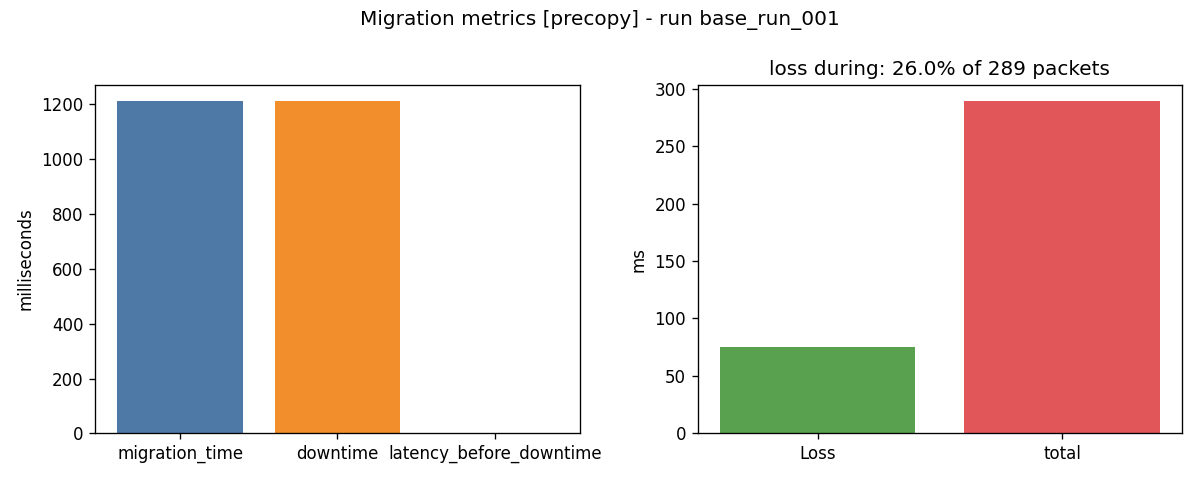
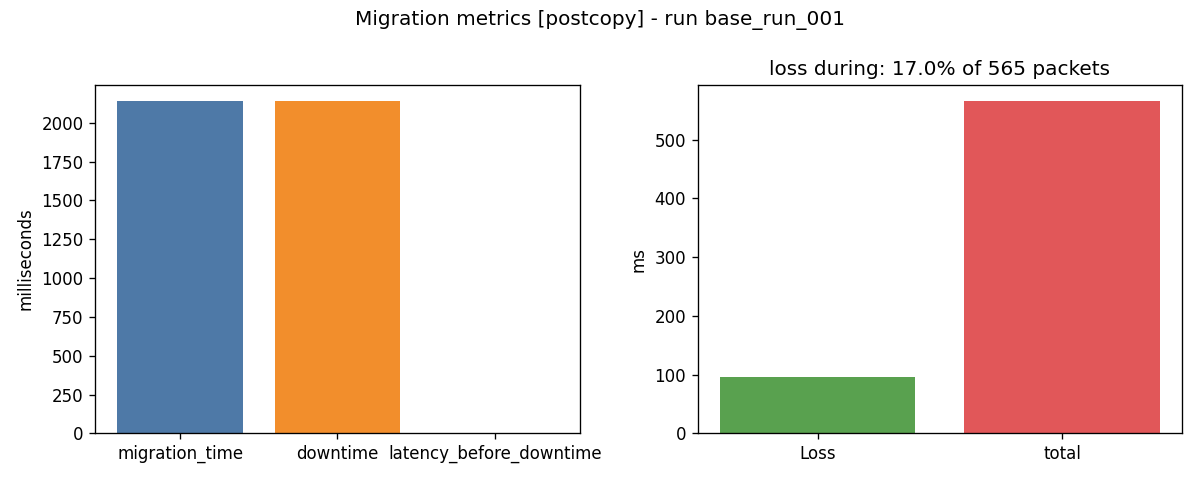
Enhance migration tracking and metrics reporting
- Introduced a blob structure in the state to track individual ingests.
- Updated ingest and state functions to handle blob data.
- Modified MetricsCollector to compute new metrics based on total, downtime, and initial migration windows.
- Adjusted MigrationController to support new window calculations and blob handling.
- Updated configuration for increased client rate and payload size.
- Added new metrics to results CSV and updated PNG output.

diff --git a/benchmark/orchestrator/migration_controller.py b/benchmark/orchestrator/migration_controller.py
@@ -18,6 +18,7 @@ class StateConsistency:
     pre_counter: int
     post_counter: int
     diff: int
+    state_size_bytes: int
 
 
 class MigrationController:
@@ -49,7 +50,7 @@ class MigrationController:
 
     # Strategies
 
-    def run(self, server_a: Container, server_b: Container) -> Tuple[MigrationWindow, StateConsistency]:
+    def run(self, server_a: Container, server_b: Container) -> Tuple[MigrationWindow, MigrationWindow, MigrationWindow, StateConsistency]:
         # Allow initial traffic
         time.sleep(self.cfg.migration.delay_s)
 
@@ -59,55 +60,159 @@ class MigrationController:
             return self._run_postcopy(server_a, server_b)
         return self._run_cold(server_a, server_b)
 
-    def _run_precopy(self, server_a: Container, server_b: Container) -> Tuple[MigrationWindow, StateConsistency]:
-        pre_state = self._get_state(server_a)
-        # Pre-transfer
-        self._import_state(server_b, pre_state)
+    def _run_precopy(self, server_a: Container, server_b: Container) -> Tuple[MigrationWindow, MigrationWindow, MigrationWindow, StateConsistency]:
+        # Total migration start: before initial pre-copy
+        total_start = now_ts()
 
-        start = now_ts()
-        self.dm.switch_alias_precopy(server_a, server_b)
-        end = now_ts()
+        # Initial pre-transfer while clients still connected to A
+        initial_start = now_ts()
+        print("[precopy] starting initial pre-transfer at", initial_start-total_start)
+        initial_state = self._get_state(server_a)
+        # mark where initial migration happened (log the counter)
+        try:
+            marker = int(initial_state.get("counter", 0))
+        except Exception:
+            marker = None
+        print(f"[precopy] initial pre-transfer marker counter={marker} at", now_ts()-total_start)
+        # Prepare a partial state that only includes blobs up to marker
+        initial_blob = {}
+        raw_blob = initial_state.get("blob", {}) or {}
+        if isinstance(raw_blob, dict) and marker is not None:
+            for k, v in raw_blob.items():
+                try:
+                    if int(k) <= marker:
+                        initial_blob[k] = v
+                except Exception:
+                    # ignore non-int keys
+                    continue
+        # Build minimal import payload
+        initial_import = {
+            "counter": marker or int(initial_state.get("counter", 0)),
+            "last_seq": int(initial_state.get("last_seq", -1)),
+            "blob": initial_blob,
+        }
+        self._import_state(server_b, initial_import)
+        initial_end = now_ts()
+        print("[precopy] completed initial pre-transfer at", initial_end-total_start)
+
+        initial_window = MigrationWindow(initial_start, initial_end)
+
+        # Now cut the client connection (clients will experience downtime)
+        downtime_start = now_ts()
+        print("[precopy] starting downtime at", downtime_start-total_start)
+        self.dm.drop_alias(server_a)
+
+        # Transfer the remaining state after cut
+        final_state = self._get_state(server_a)
+        # Prepare remaining blobs (those with counter > marker)
+        remaining_blob = {}
+        raw_final_blob = final_state.get("blob", {}) or {}
+        if isinstance(raw_final_blob, dict) and marker is not None:
+            for k, v in raw_final_blob.items():
+                try:
+                    if int(k) > marker:
+                        remaining_blob[k] = v
+                except Exception:
+                    continue
+        final_import = {
+            "counter": int(final_state.get("counter", 0)),
+            "last_seq": int(final_state.get("last_seq", -1)),
+            "blob": remaining_blob,
+        }
+        self._import_state(server_b, final_import)
+        print("[precopy] completed final transfer at", now_ts()-total_start)
+
+        # Reconnect clients to B
+        self.dm.attach_alias(server_b)
+        downtime_end = now_ts()
+        print("[precopy] ended downtime at", downtime_end-total_start)
+
         # Post consistency check
         post_state = self._get_state(server_b)
-        return MigrationWindow(start, end), self._consistency(pre_state, post_state)
+        print("[precopy] completed post consistency check at", now_ts()-total_start)
+        total_end = downtime_end
+        # Return (total_window, downtime_window, initial_window, consistency)
+        return (
+            MigrationWindow(total_start, total_end),
+            MigrationWindow(downtime_start, downtime_end),
+            initial_window,
+            self._consistency(initial_state, post_state),
+        )
 
-    def _run_postcopy(self, server_a: Container, server_b: Container) -> Tuple[MigrationWindow, StateConsistency]:
-        start = now_ts()
-        self.dm.switch_alias_postcopy(server_a, server_b)
-        end = now_ts()
+    def _run_postcopy(self, server_a: Container, server_b: Container) -> Tuple[MigrationWindow, MigrationWindow, MigrationWindow, StateConsistency]:
+        # Postcopy: disconnect clients first, then transfer, then reconnect
+        total_start = now_ts()
 
-        # Progressive sync for a limited window
-        def sync_loop():
-            stop_at = time.time() + self.cfg.migration.postcopy_sync_s
-            while time.time() < stop_at:
-                try:
-                    st = self._get_state(server_a)  # A remains connected (no alias)
-                    self._import_state(server_b, st)
-                except Exception:
-                    pass
-                time.sleep(0.3)
+        # Disconnect clients (start downtime)
+        downtime_start = now_ts()
+        self.dm.drop_alias(server_a)
 
-        t = threading.Thread(target=sync_loop, daemon=True)
-        t.start()
-        t.join()
-
+        # Transfer full state from A to B while clients disconnected
         pre_state = self._get_state(server_a)
-        post_state = self._get_state(server_b)
-        return MigrationWindow(start, end), self._consistency(pre_state, post_state)
+        self._import_state(server_b, pre_state)
 
-    def _run_cold(self, server_a: Container, server_b: Container) -> Tuple[MigrationWindow, StateConsistency]:
-        start = now_ts()
+        # Reconnect clients to B
+        self.dm.attach_alias(server_b)
+        downtime_end = now_ts()
+
+        post_state = self._get_state(server_b)
+        total_end = downtime_end
+
+        # For postcopy there was no initial background copy; return an empty initial window
+        initial_window = MigrationWindow(total_start, total_start)
+        return (
+            MigrationWindow(total_start, total_end),
+            MigrationWindow(downtime_start, downtime_end),
+            initial_window,
+            self._consistency(pre_state, post_state),
+        )
+
+    def _run_cold(self, server_a: Container, server_b: Container) -> Tuple[MigrationWindow, MigrationWindow, MigrationWindow, StateConsistency]:
+        total_start = now_ts()
+        # Cold cut: remove alias from A (clients disconnect)
+        downtime_start = now_ts()
         self.dm.switch_alias_cold(server_a, server_b)
         pre_state = self._get_state(server_a)
         # Import into B
         self._import_state(server_b, pre_state)
         # Attach alias to B after import
         self.dm.attach_alias(server_b)
-        end = now_ts()
+        downtime_end = now_ts()
         post_state = self._get_state(server_b)
-        return MigrationWindow(start, end), self._consistency(pre_state, post_state)
+        total_end = downtime_end
+        # No initial pre-copy window for cold; return empty initial window
+        initial_window = MigrationWindow(total_start, total_start)
+        return (
+            MigrationWindow(total_start, total_end),
+            MigrationWindow(downtime_start, downtime_end),
+            initial_window,
+            self._consistency(pre_state, post_state),
+        )
 
     def _consistency(self, pre: Dict[str, Any], post: Dict[str, Any]) -> StateConsistency:
         pre_counter = int(pre.get("counter", 0))
         post_counter = int(post.get("counter", 0))
-        return StateConsistency(pre_counter=pre_counter, post_counter=post_counter, diff=abs(pre_counter - post_counter))
+        # Compute blob size on post state as the size of the transferred state.
+        # New state format: blob is a dict of counter->blob_value. Sum lengths of values.
+        def total_blob_bytes(b):
+            if isinstance(b, dict):
+                try:
+                    return sum(len(v or "") for v in b.values())
+                except Exception:
+                    return 0
+            if b is None:
+                return 0
+            try:
+                return len(b)
+            except Exception:
+                return 0
+
+        pre_blob = pre.get("blob", {})
+        post_blob = post.get("blob", {})
+        state_bytes = total_blob_bytes(post_blob)
+        return StateConsistency(
+            pre_counter=pre_counter,
+            post_counter=post_counter,
+            diff=abs(pre_counter - post_counter),
+            state_size_bytes=state_bytes,
+        )

diff --git a/benchmark/orchestrator/metrics_collector.py b/benchmark/orchestrator/metrics_collector.py
@@ -81,7 +81,8 @@ class MetricsCollector:
     def _compute_latency_before(self, rows: list[Dict[str, Any]], win: MigrationWindow) -> float:
         before = [r for r in rows if r["send_ts"] < win.start_ts and r["status"] == "ok"]
         last_ok_ts = max([r["send_ts"] for r in before], default=win.start_ts)
-        latency_before = max(0.0, last_ok_ts - win.start_ts)
+        # time between last successful send before downtime and the downtime start
+        latency_before = max(0.0, win.start_ts - last_ok_ts)
         return latency_before
 
     def _compute_packet_metrics(
@@ -106,25 +107,33 @@ class MetricsCollector:
     def collect(
         self,
         containers: list[Container],
-        win: MigrationWindow,
+        total_win: MigrationWindow,
+        downtime_win: MigrationWindow,
+        initial_win: MigrationWindow,
         state_diff: int,
         strategy: str,
     ) -> Metrics:
         rows = self._parse_client_logs(containers)
 
-        downtime_s = self._compute_downtime(rows, win)
-        latency_before_s = self._compute_latency_before(rows, win)
+        # Downtime calculations use the downtime window (clients disconnected)
+        downtime_s = self._compute_downtime(rows, downtime_win)
+
+        # latency_before should reflect the initial pre-copy duration (if any)
+        latency_before_s = max(0.0, initial_win.end_ts - initial_win.start_ts)
 
         client_downtime_ms = downtime_s * 1000.0
         latency_before_downtime_ms = latency_before_s * 1000.0
-        migration_time_ms = client_downtime_ms + latency_before_downtime_ms
+
+        # Migration time is the total migration window (from first action to reconnect)
+        migration_time_ms = (total_win.end_ts - total_win.start_ts) * 1000.0
+
         (
             packet_loss,
             tot_packets_successful,
             tot_packets,
-        ) = self._compute_packet_metrics(rows, win)
+        ) = self._compute_packet_metrics(rows, downtime_win)
 
-        print("rows parsed list:", rows)
+        #print("rows parsed list:", rows)
         return Metrics(
             run_id=self.cfg.general.run_id,
             strategy=strategy,

diff --git a/app/server.py b/app/server.py
@@ -15,6 +15,8 @@ STATE: Dict[str, Any] = {
     "counter": 0,
     "last_seq": -1,
     "updated_ts": time.time(),
+    # blob now stores a mapping of counter->blob_value so we can track individual ingests
+    "blob": {},
 }
 
 
@@ -33,6 +35,13 @@ def ingest():
             STATE["last_seq"] = seq
             STATE["counter"] = int(STATE.get("counter", 0)) + 1
             STATE["updated_ts"] = time.time()
+            # Store the incoming blob under the new counter so each ingest is tracked
+            incoming = payload.get("blob", "") or ""
+            c = str(STATE["counter"])
+            # ensure blob is a dict
+            if not isinstance(STATE.get("blob"), dict):
+                STATE["blob"] = {}
+            STATE["blob"][c] = incoming
     return jsonify({"ack": True, "seq": seq, "server": STATE["server"], "counter": STATE["counter"]})
 
 
@@ -48,6 +57,16 @@ def state():
         STATE["counter"] = max(int(STATE.get("counter", 0)), int(data.get("counter", 0)))
         STATE["last_seq"] = max(int(STATE.get("last_seq", -1)), int(data.get("last_seq", -1)))
         STATE["updated_ts"] = time.time()
+        # Merge blob dicts: incoming blob should be a mapping of counter->value
+        incoming_blob = data.get("blob", {}) or {}
+        if not isinstance(incoming_blob, dict):
+            # fallback: if remote used old string format, keep existing blob
+            incoming_blob = {}
+        if not isinstance(STATE.get("blob"), dict):
+            STATE["blob"] = {}
+        for k, v in incoming_blob.items():
+            # prefer to import/overwrite entries from incoming state
+            STATE["blob"][k] = v
     return jsonify({"imported": True})
 
 

diff --git a/benchmark/orchestrator/cli.py b/benchmark/orchestrator/cli.py
@@ -26,10 +26,15 @@ def run_benchmark(config_path: str) -> None:
         mc = MigrationController(cfg, dm)
         mc.register_host_ports(server_a, server_b)
 
-        win, consistency = mc.run(server_a, server_b)
+        total_win, downtime_win, initial_win, consistency = mc.run(server_a, server_b)
 
         metrics = MetricsCollector(cfg).collect(
-            containers=clients, win=win, state_diff=consistency.diff, strategy=cfg.migration.strategy
+            containers=clients,
+            total_win=total_win,
+            downtime_win=downtime_win,
+            initial_win=initial_win,
+            state_diff=consistency.state_size_bytes,
+            strategy=cfg.migration.strategy,
         )
         reporter = Reporter(cfg)
         csv_path = reporter.save_metrics_csv(metrics)
